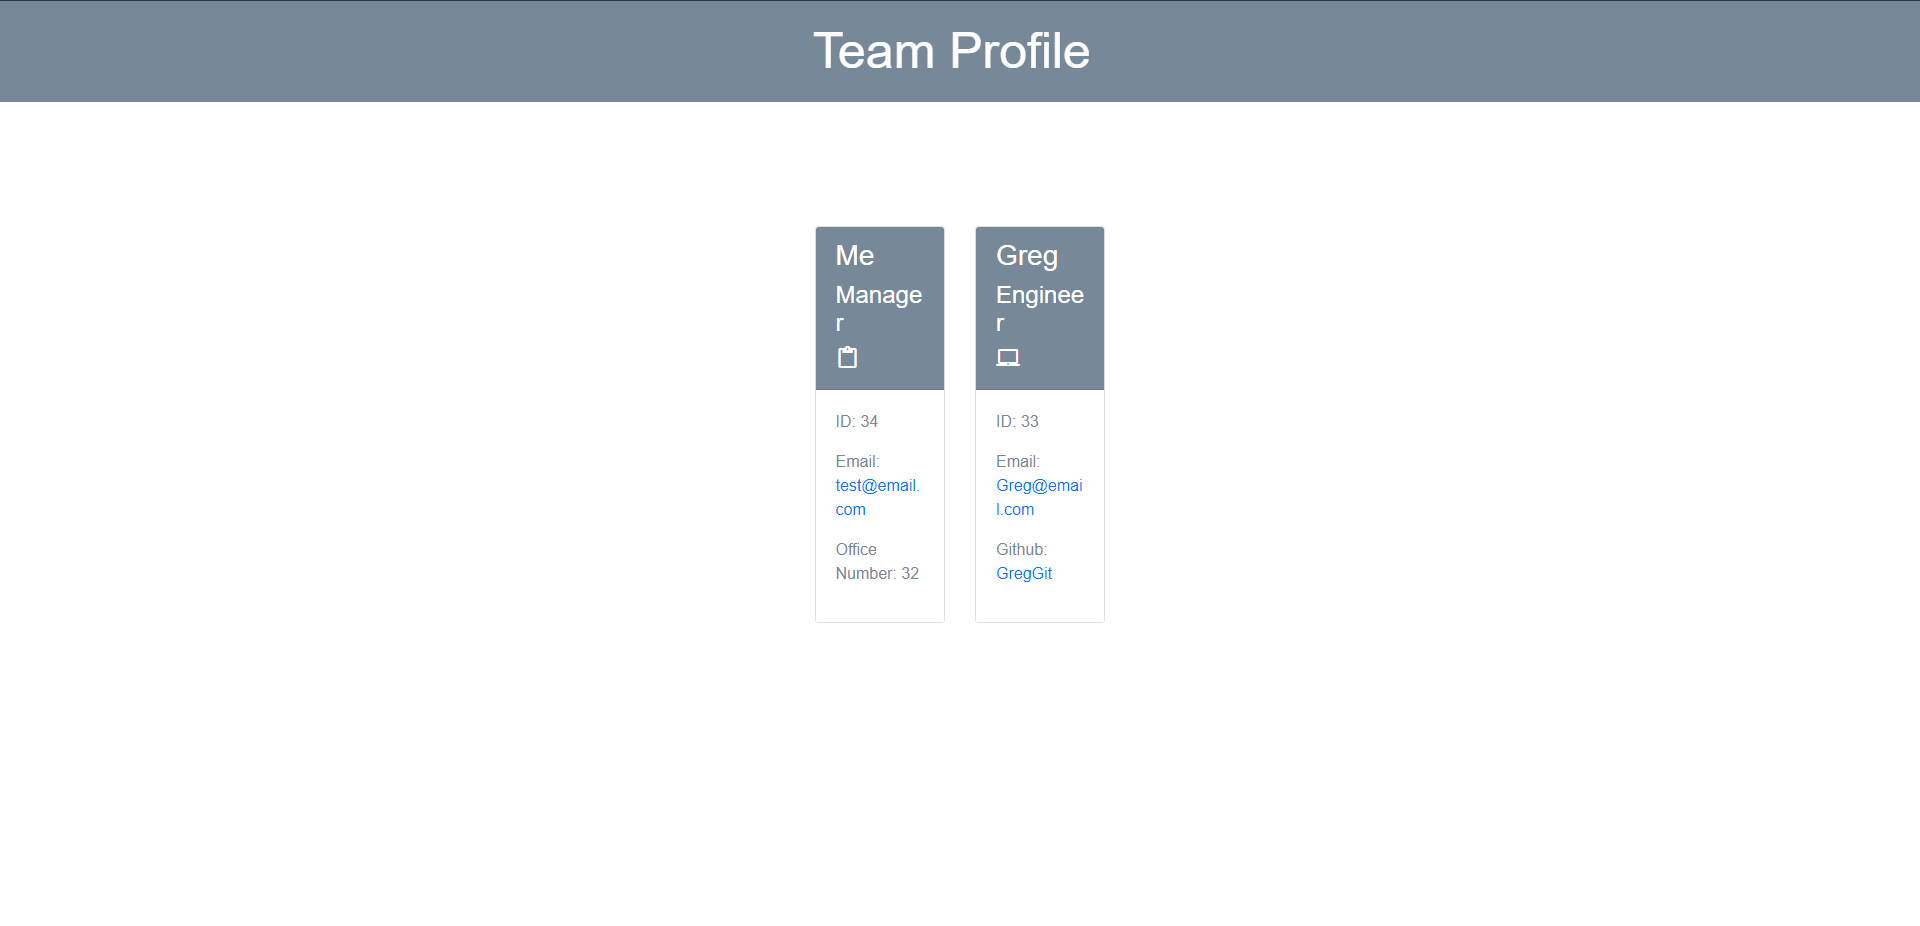
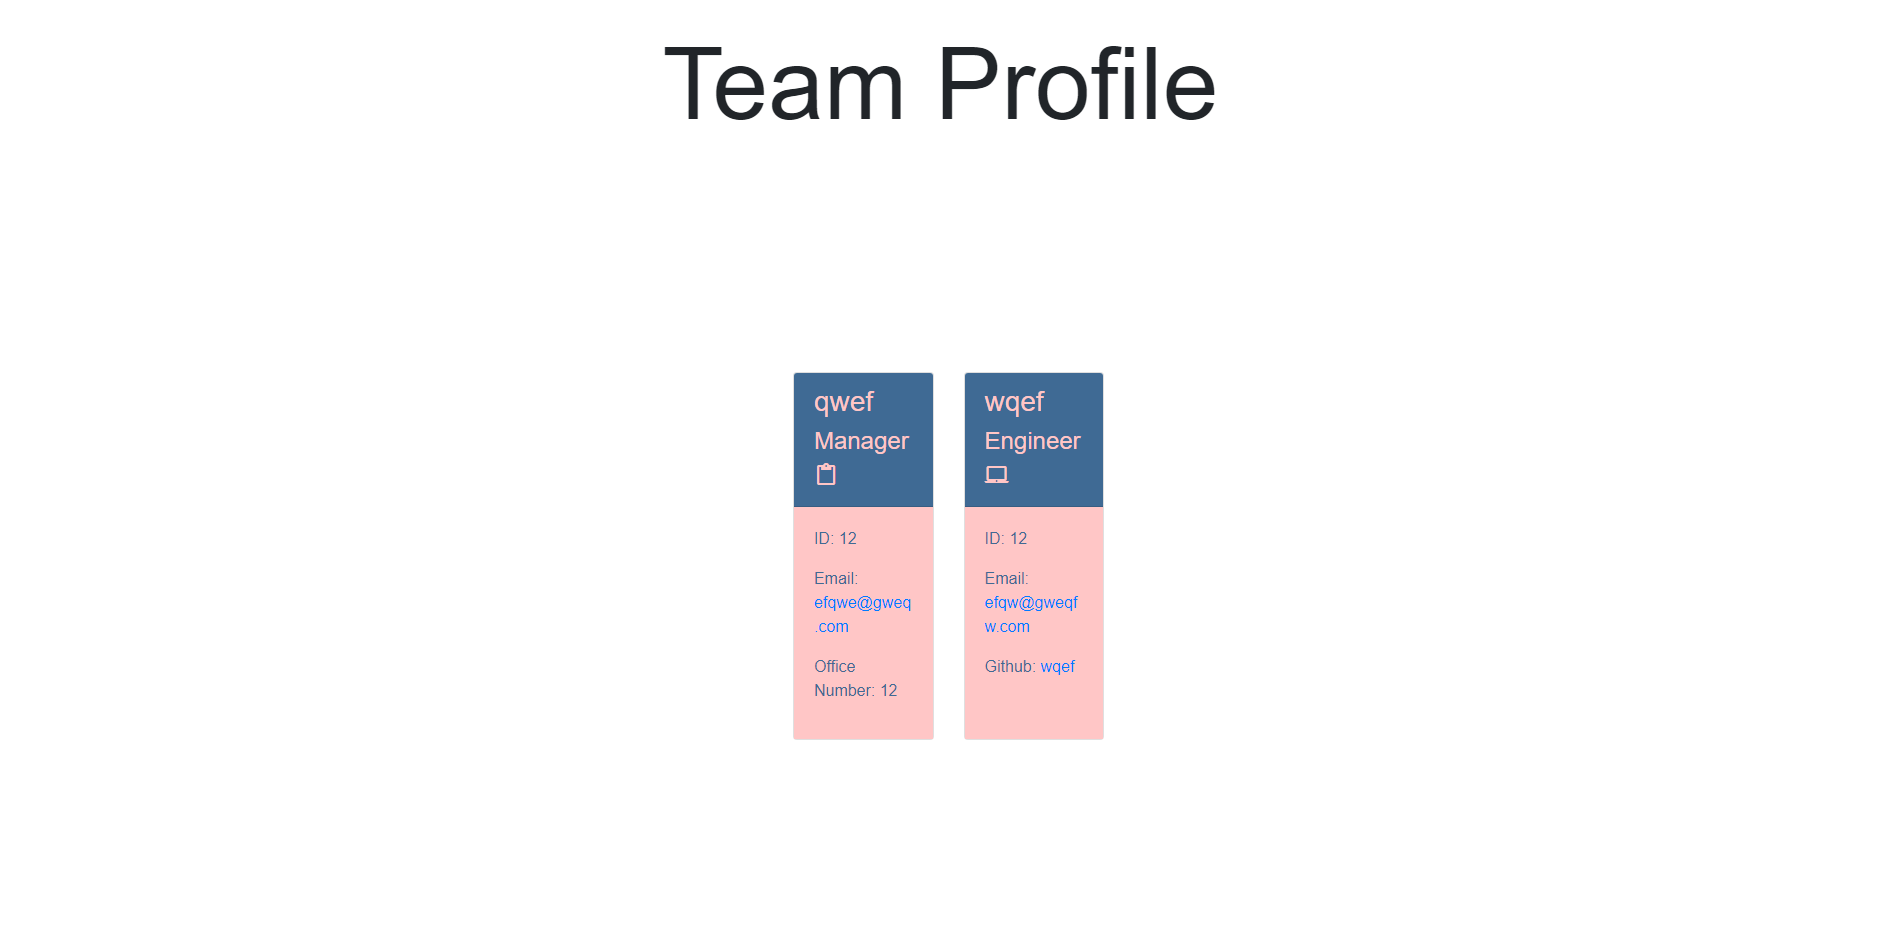
index.js recreated

Changed region(s): [[0.0, 0.0, 1.0, 0.1512], [0.4056, 0.2419, 0.5928, 0.8164]]

diff --git a/dist/index.html b/dist/index.html
@@ -20,36 +20,34 @@
       <main>
           <div class="container">
               <div class="row justify-content-center" id="team-cards">
+                  <!--Team Cards-->
                   
-    <div class="col-4 mt-6">
+    <div class="col-4 mt-5">
         <div class="card h-100">
             <div class="card-header">
-                <h3>qwef</h3>
-                <h4>Manager</h4><i class="material-icons">content_paste</i>
+                <h2>qwef</h2>
+                <h3>Manager</h3><i class="material-icons">content_paste</i>
             </div>
-
             <div class="card-body">
                 <p class="id">ID: 12</p>
-                <p class="email">Email: <a href="mailto:efqwe@gweq.com">efqwe@gweq.com</a></p>
-                <p class="office">Office Number: 12</p>
+                <p class="email">Email: <a href="mailto:qwef@fwqef.com">qwef@fwqef.com</a></p>
+                <p class="office">Office Number: 123</p>
             </div>
 
         </div>
     </div>
     
-    <div class="col-4 mt-6">
+    <div class="col-4 mt-5">
         <div class="card h-100">
             <div class="card-header">
-                <h3>wqef</h3>
-                <h4>Engineer</h4><i class="material-icons">laptop_mac</i>
+                <h2>qwef</h2>
+                <h3>Engineer</h3><i class="material-icons">laptop_mac</i>
             </div>
-
             <div class="card-body">
                 <p class="id">ID: 12</p>
-                <p class="email">Email: <a href="mailto:efqw@gweqfw.com">efqw@gweqfw.com</a></p>
+                <p class="email">Email: <a href="mailto:qwef@gwqefm.com">qwef@gwqefm.com</a></p>
                 <p class="github">Github: <a href="https://github.com/wqef">wqef</a></p>
             </div>
-
         </div>
     </div>
     

diff --git a/index.js b/index.js
@@ -82,7 +82,7 @@ const addEmployee = () => {
         {
             type: 'confirm',
             name: 'confirmAddE',
-            message: 'Are there anymore members you would like to ad?',
+            message: 'Are there anymore members you would like to add?',
             default: false
         }
     ])
